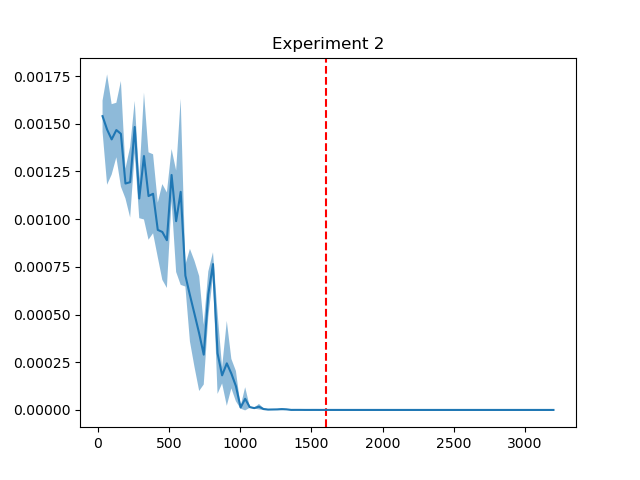
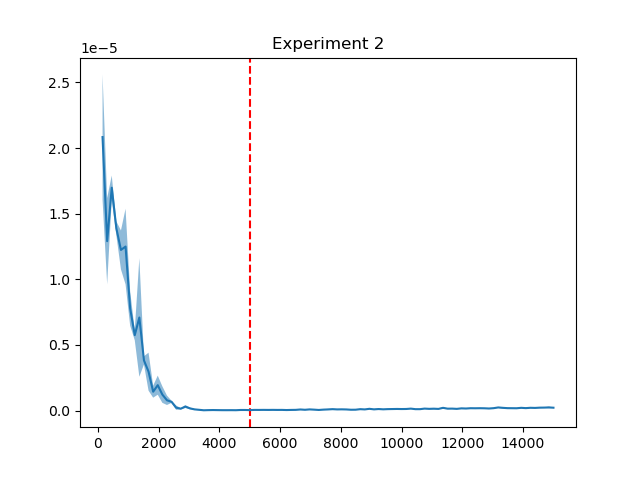
feat: added recreate script. Redid experiments 1-4

diff --git a/Chapter4/recreate_plots.py b/Chapter4/recreate_plots.py
@@ -1,0 +1,49 @@
+import os
+import matplotlib.pyplot as plt
+import numpy as np
+
+# Parameters for recreating the plot
+input_dim = 50
+output_dim = 100
+experiment_number = 4
+
+# Create directory for experiment
+filepath = f"experiments/E_{experiment_number}"
+
+# Load and plot
+filename = os.path.join(f"experiments/E_{experiment_number}", "shadow_main.npz")
+p_cutoff = input_dim * (output_dim - input_dim)
+# np.savez(filename, all_losses=all_losses, ps=ps, p_cutoff=p_cutoff)
+data = np.load(filename)
+all_losses = data["all_losses"]
+ps = data["ps"]
+# Create plot
+
+plt.axvline(p_cutoff, color="red", linestyle="--")
+plt.plot(ps, all_losses.mean(0))
+plt.fill_between(
+    ps,
+    all_losses.mean(0) - all_losses.std(0),
+    all_losses.mean(0) + all_losses.std(0),
+    alpha=0.5,
+)
+plt.title(f"Experiment {experiment_number}")
+filename = os.path.join(f"experiments/E_{experiment_number}", "shadow_main.png")
+plt.savefig(filename)
+plt.close()
+
+# Create log-plot
+plt.axvline(p_cutoff, color="red", linestyle="--")
+plt.plot(ps, all_losses.mean(0))
+plt.fill_between(
+    ps,
+    all_losses.mean(0) - all_losses.std(0),
+    all_losses.mean(0) + all_losses.std(0),
+    alpha=0.5,
+)
+plt.xscale("log")
+plt.yscale("log")
+plt.title(f"Log-plot of experiment {experiment_number}")
+filename = os.path.join(f"experiments/E_{experiment_number}", "shadow_main_log.png")
+plt.savefig(filename)
+plt.close()

diff --git a/Chapter4/shadow_main2.py b/Chapter4/shadow_main2.py
@@ -74,7 +74,7 @@ if __name__ == "__main__":
     parser.add_argument("--epsilon", type=float, default=1e-1)
     parser.add_argument("--n_iter", type=int, default=1000)
     parser.add_argument("--experiment_number", type=int, default=0)
-    parser.add_argument("--seeds", nargs="+", type=int, default=[3, 4, 5])
+    parser.add_argument("--seeds", nargs="+", type=int, default=[1, 4, 5])
     args = parser.parse_args()
 
     # Run
@@ -117,8 +117,11 @@ if __name__ == "__main__":
     filename = os.path.join(
         f"experiments/E_{args.experiment_number}", "shadow_main.npz"
     )
-    np.savez(filename, all_losses=all_losses, ps=ps)
     p_cutoff = args.input_dim * (args.output_dim - args.input_dim)
+    np.savez(filename, all_losses=all_losses, ps=ps, p_cutoff=p_cutoff)
+
+    # Create plot
+
     plt.axvline(p_cutoff, color="red", linestyle="--")
     plt.plot(ps, all_losses.mean(0))
     plt.fill_between(
